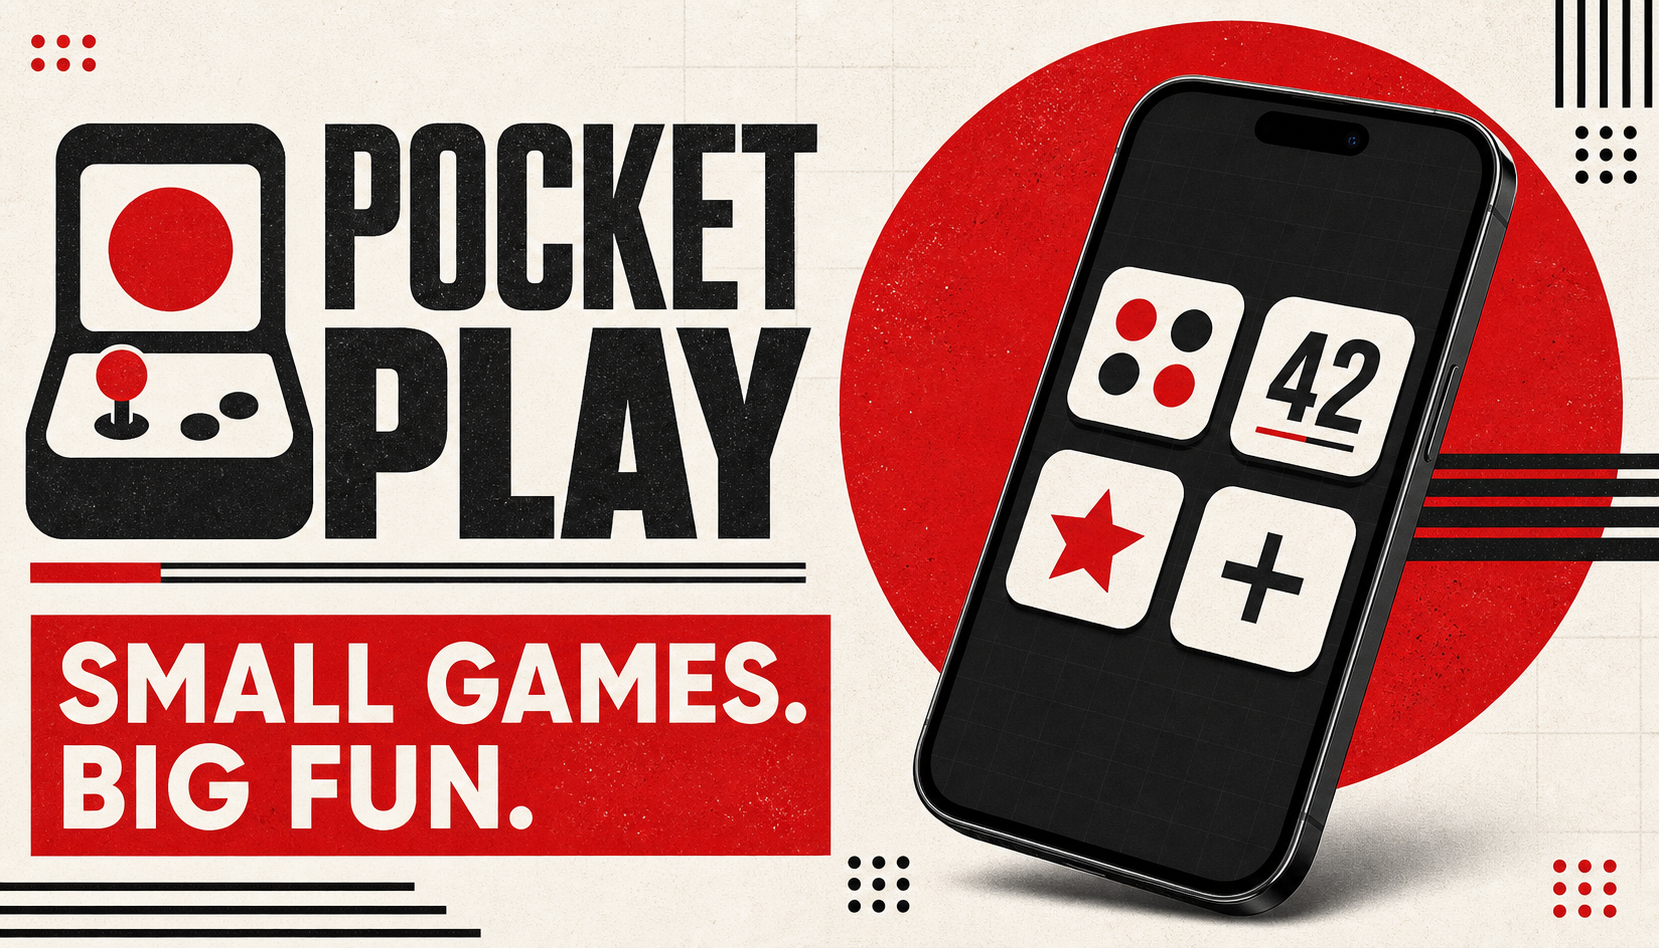
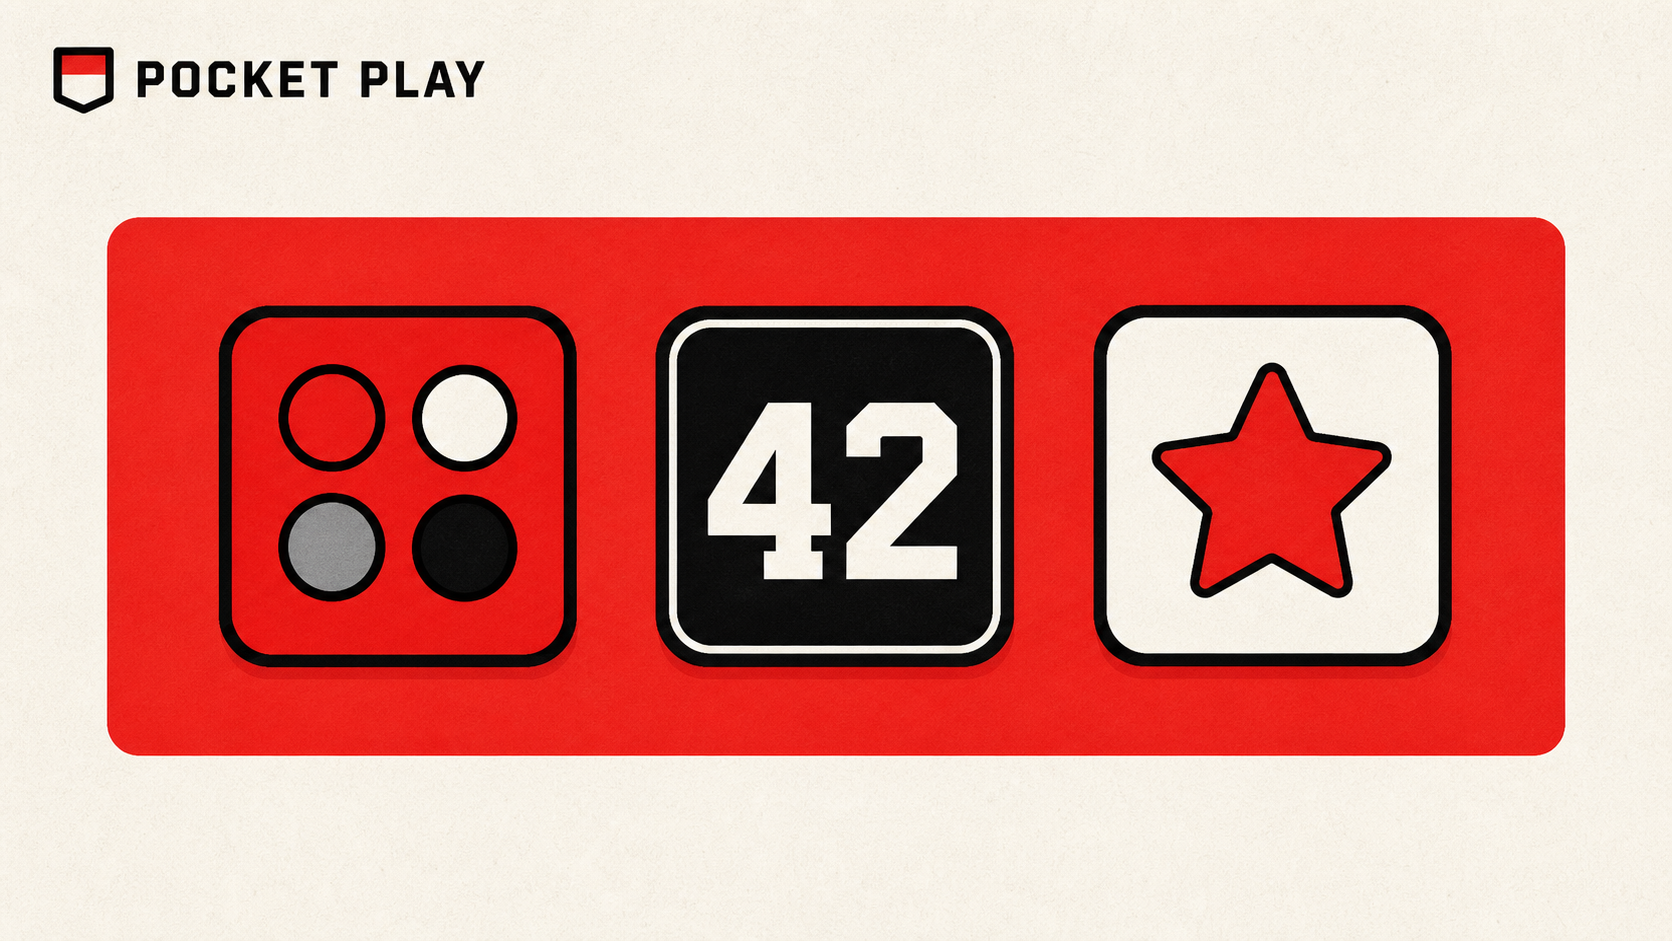
Simplify Pocket Play to game grid

diff --git a/app/globals.css b/app/globals.css
@@ -33,6 +33,11 @@ button,input { font:inherit; } button { color:inherit; } a { color:inherit; text
 .how-section { max-width:1150px; margin:0 auto 110px; padding:55px 60px; display:grid; grid-template-columns:.9fr 1.1fr; gap:70px; align-items:center; border:3px solid var(--black); background:var(--red); color:white; box-shadow:12px 12px 0 var(--black); }.how-section .eyebrow { color:white;opacity:.75; }.how-section h2 { max-width:480px; }.how-section ol { list-style:none;margin:0;padding:0; }.how-section li { display:grid;grid-template-columns:42px 1fr;gap:15px;padding:16px 0;border-bottom:1px solid rgba(255,255,255,.35); }.how-section li:last-child { border:0; }.how-section li>span { width:34px;height:34px;display:grid;place-items:center;border:2px solid white;font-size:14px;font-weight:900; }.how-section strong { font-size:12px; }.how-section li p { margin:4px 0 0;font-size:10px;opacity:.78; }
 footer { min-height:95px; padding:25px clamp(24px,6vw,90px); display:flex;justify-content:space-between;align-items:center;border-top:3px solid var(--black);background:white;font-size:9px;font-weight:700;letter-spacing:.1em; }
 
+.library-only { min-height:calc(100vh - 72px); padding-top:64px; }
+.library-only .section-heading { margin-bottom:34px; }
+.library-only .section-heading h1 { margin:0; font-size:clamp(38px,5vw,58px); font-weight:900; letter-spacing:-.05em; }
+.library-only .app-shelf { grid-template-columns:repeat(6,minmax(100px,132px)); }
+
 .game-shell { min-height:100vh;background:linear-gradient(90deg,rgba(0,0,0,.025) 1px,transparent 1px),linear-gradient(rgba(0,0,0,.025) 1px,transparent 1px),var(--paper);background-size:30px 30px; }.game-topbar { height:69px; }.small-wordmark { position:absolute;left:50%;transform:translateX(-50%); }.back-button,.icon-button,.text-button { border:0;background:transparent;font-weight:900;cursor:pointer; }.back-button { font-size:11px; }.icon-button { width:38px;height:38px;border:2px solid var(--black);background:white;font-size:19px;box-shadow:3px 3px 0 var(--red); }.game-intro { text-align:center;padding:44px 20px 27px; }.game-intro h1,.number-game h1,.memory-heading h1 { margin:0;font-size:clamp(40px,5vw,59px);line-height:1; }.game-intro>p:not(.eyebrow),.number-game>p:not(.eyebrow),.memory-heading p:not(.eyebrow) { color:#706c66; }.legend { display:flex;justify-content:center;gap:22px;margin-top:22px;font-size:9px;font-weight:700; }.key-dot { display:inline-block;width:9px;height:9px;border-radius:50%;margin-right:5px; }.exact-dot { background:var(--red); }.close-dot { border:2px solid var(--black); }
 
 .code-board { width:min(620px,calc(100% - 28px));margin:0 auto 70px;border:3px solid var(--black);background:white;box-shadow:9px 10px 0 var(--black);overflow:hidden; }.secret-row { padding:18px 24px;background:var(--black);color:white;display:grid;grid-template-columns:1fr auto 1fr;align-items:center; }.secret-row>span,.secret-row>strong { font-size:8px;letter-spacing:.14em; }.secret-row>strong { text-align:right;color:#ff6570; }.peg-row { display:flex;gap:10px; }.peg { width:33px;height:33px;display:inline-grid;place-items:center;border-radius:10px;border:2px solid var(--black);background:#ddd8cf;box-shadow:inset 0 -3px 0 rgba(0,0,0,.14);font-weight:900; }.secret-row .peg { border-color:white; }.peg-hidden { background:#333!important;color:white;box-shadow:none; }.attempt-row { min-height:58px;display:grid;grid-template-columns:44px 1fr 100px;align-items:center;padding:8px 22px;border-bottom:1px solid var(--line); }.active-attempt { background:#fff0f1; }.attempt-number { font-size:9px;font-weight:900;opacity:.45; }.feedback { display:flex;justify-content:flex-end;gap:11px;font-size:10px;font-weight:900; }.exact-count { color:var(--red); }.close-count { color:var(--black); }.feedback-empty { opacity:.25; }.picker-panel { padding:20px 24px 24px;background:#efebe4; }.picker-panel p { margin:0 0 14px;display:flex;justify-content:space-between;font-size:9px;font-weight:900;letter-spacing:.08em; }.picker-panel p span { opacity:.5; }.color-picker { display:flex;gap:12px; }.color-choice { width:42px;height:42px;border:2px solid var(--black);border-radius:12px;cursor:pointer;box-shadow:inset 0 -4px 0 rgba(0,0,0,.14),3px 3px 0 var(--black);transition:transform .1s; }.color-choice:hover { transform:translateY(-3px); }.picker-actions { display:flex;justify-content:space-between;align-items:center;margin-top:19px; }.text-button { text-decoration:underline; }.text-button:disabled { opacity:.3; }.result-panel { display:flex;align-items:center;justify-content:space-between;gap:18px;padding:22px 24px;background:#ffe3e5; }.result-panel div { display:flex;flex-direction:column; }.result-panel strong { font-size:21px;font-weight:900; }.result-panel span { font-size:10px;color:#6f6162; }
@@ -42,5 +47,5 @@ footer { min-height:95px; padding:25px clamp(24px,6vw,90px); display:flex;justif
 .memory-game { width:min(760px,calc(100% - 36px));margin:0 auto;padding:58px 0 80px; }.memory-heading { display:flex;align-items:flex-end;justify-content:space-between;margin-bottom:30px; }.memory-heading p { margin-bottom:9px; }.memory-heading p:last-child { margin:12px 0 0; }.moves { border:2px solid var(--black);padding:11px 19px;text-align:center;background:white;box-shadow:4px 4px 0 var(--red); }.moves strong { display:block;font-size:25px;font-weight:900;color:var(--red); }.moves span { font-size:7px;font-weight:900;letter-spacing:.12em; }.memory-grid { display:grid;grid-template-columns:repeat(4,1fr);gap:12px; }.memory-card { aspect-ratio:1;border:3px solid var(--black);border-radius:18px;background:var(--black);color:white;cursor:pointer;box-shadow:5px 6px 0 var(--red);transition:transform .25s,background .25s; }.memory-card:hover:not(.is-open) { transform:translateY(-4px); }.memory-card.is-open { background:white;color:var(--red);transform:rotateY(180deg); }.memory-card.is-matched { background:var(--red);color:white;box-shadow:none;opacity:.75; }.memory-card span { display:inline-block;font-size:clamp(30px,6vw,58px);transform:rotateY(180deg); }.memory-game .result-panel { margin-top:24px;border:3px solid var(--black);box-shadow:6px 6px 0 var(--black); }
 
 @media(max-width:900px){.hero{grid-template-columns:1fr;padding-top:55px}.hero-art{height:470px;margin-top:28px}.quick-stats{margin:0 24px}.app-shelf{grid-template-columns:repeat(4,minmax(92px,1fr))}.how-section{margin-left:24px;margin-right:24px;grid-template-columns:1fr;gap:30px}}
-@media(max-width:600px){.hub-nav{height:65px;padding:0 15px}.nav-links{display:none}.nav-play{padding:8px 14px}.wordmark{font-size:10px}.brand-dot{width:27px;height:27px}.hero{padding:48px 19px 50px;min-height:auto}.hero h1{font-size:55px}.hero-text{font-size:13px}.hero-actions{gap:18px}.hero-art{height:410px}.sun-disc{width:290px;height:290px;right:-8%;top:14%}.phone-frame{width:205px;height:385px;border-radius:31px}.phone-frame>p{margin:19px 0 13px}.mini-apps{gap:13px}.japanese-stamp{right:-8px}.quick-stats{padding:14px 7px;min-height:74px}.quick-stats div{gap:7px}.quick-stats strong{font-size:20px}.quick-stats span{font-size:6px}.collection{padding:75px 18px}.section-heading{align-items:start}.section-heading>p{display:none}.app-shelf{grid-template-columns:repeat(3,1fr);gap:31px 15px}.app-icon{border-radius:21px;box-shadow:4px 5px 0 var(--black)}.app-item>strong{font-size:10px}.how-section{margin:0 18px 75px;padding:35px 24px;box-shadow:8px 8px 0 var(--black)}.how-section h2{font-size:36px}footer{flex-direction:column;gap:12px;text-align:center}.game-topbar{padding:0 14px}.small-wordmark{font-size:8px}.game-intro{padding-top:35px}.game-intro h1,.number-game h1,.memory-heading h1{font-size:39px}.legend{flex-direction:column;gap:7px}.secret-row{grid-template-columns:1fr auto;padding:15px}.secret-row>span{display:none}.secret-row>strong{margin-left:14px}.attempt-row{grid-template-columns:29px 1fr 74px;padding:7px 12px}.peg-row{gap:7px}.peg{width:30px;height:30px}.picker-panel{padding:18px 15px}.color-picker{justify-content:space-between;gap:6px}.color-choice{width:39px;height:39px}.result-panel{align-items:stretch;flex-direction:column}.number-game{padding-top:52px}.number-orb{width:140px;height:140px}.memory-heading{align-items:flex-start}.moves{padding:8px 13px}.memory-grid{gap:8px}.memory-card{border-radius:13px}}
+@media(max-width:600px){.hub-nav{height:65px;padding:0 15px}.wordmark{font-size:10px}.brand-dot{width:27px;height:27px}.library-only{min-height:calc(100vh - 65px);padding:42px 18px}.library-only .app-shelf{grid-template-columns:repeat(3,1fr);gap:31px 15px}.app-icon{border-radius:21px;box-shadow:4px 5px 0 var(--black)}.app-item>strong{font-size:10px}.game-topbar{padding:0 14px}.small-wordmark{font-size:8px}.game-intro{padding-top:35px}.game-intro h1,.number-game h1,.memory-heading h1{font-size:39px}.legend{flex-direction:column;gap:7px}.secret-row{grid-template-columns:1fr auto;padding:15px}.secret-row>span{display:none}.secret-row>strong{margin-left:14px}.attempt-row{grid-template-columns:29px 1fr 74px;padding:7px 12px}.peg-row{gap:7px}.peg{width:30px;height:30px}.picker-panel{padding:18px 15px}.color-picker{justify-content:space-between;gap:6px}.color-choice{width:39px;height:39px}.result-panel{align-items:stretch;flex-direction:column}.number-game{padding-top:52px}.number-orb{width:140px;height:140px}.memory-heading{align-items:flex-start}.moves{padding:8px 13px}.memory-grid{gap:8px}.memory-card{border-radius:13px}}
 @media(prefers-reduced-motion:reduce){*,*::before,*::after{scroll-behavior:auto!important;transition:none!important}}

diff --git a/app/page.tsx b/app/page.tsx
@@ -285,60 +285,20 @@ function Hub({ onSelect }: { onSelect: (game: GameId) => void }) {
   return (
     <main className="hub-shell">
       <nav className="hub-nav">
-        <div className="wordmark"><span className="brand-dot">P</span><span>POCKET PLAY<small>ポケットプレイ</small></span></div>
-        <div className="nav-links"><a href="#games">ゲーム</a><a href="#how">遊び方</a></div>
-        <button className="nav-play" onClick={() => onSelect("codebreaker")}>PLAY</button>
+        <div className="wordmark"><span className="brand-dot">P</span><span>POCKET PLAY</span></div>
       </nav>
 
-      <section className="hero">
-        <div className="hero-copy">
-          <div className="hero-kicker">POCKET ARCADE · ポケットアーケード</div>
-          <h1><span>小さなゲーム。</span>Big fun,<br /><em>one tap away.</em></h1>
-          <p className="hero-text">A tiny arcade built for quick breaks. Choose an icon, tap to open, and start playing instantly.</p>
-          <div className="hero-actions"><button className="primary-button hero-button" onClick={() => onSelect("codebreaker")}>START GAME <span>→</span></button><a href="#games">VIEW ALL</a></div>
-        </div>
-        <div className="hero-art" aria-hidden="true">
-          <div className="sun-disc" />
-          <div className="phone-frame">
-            <div className="phone-status"><span>9:41</span><i /></div>
-            <p>ゲーム</p>
-            <div className="mini-apps"><span className="mini-code">●●<small>CODE</small></span><span className="mini-number">42<small>NUMBER</small></span><span className="mini-memory">★<small>MEMORY</small></span><span className="mini-more">＋<small>MORE</small></span></div>
-            <div className="phone-dock"><i /><i /><i /></div>
-          </div>
-          <div className="japanese-stamp">遊<br />ぶ</div>
-        </div>
-      </section>
-
-      <section className="quick-stats" aria-label="Pocket Play features">
-        <div><strong>01</strong><span>CHOOSE<br />選ぶ</span></div><i />
-        <div><strong>02</strong><span>TAP<br />タップ</span></div><i />
-        <div><strong>03</strong><span>PLAY<br />遊ぶ</span></div>
-      </section>
-
-      <section className="collection" id="games">
-        <div className="section-heading"><div><p className="eyebrow">GAME LIBRARY · ゲームライブラリ</p><h2>Choose a game</h2></div><p>Tap an app to start playing.</p></div>
+      <section className="collection library-only">
+        <div className="section-heading"><h1>Games</h1></div>
         <div className="app-shelf">
           {games.map((game) => (
             <button className="app-item" key={game.id} onClick={() => onSelect(game.id)}>
               <span className={`app-icon theme-${game.color}`}><i>{game.glyph}</i><b>{game.number}</b></span>
               <strong>{game.name}</strong>
-              <small>{game.meta}</small>
             </button>
           ))}
-          <div className="app-item coming-item">
-            <span className="app-icon coming-icon"><i>＋</i><b>04</b></span>
-            <strong>More soon</strong>
-            <small>COMING SOON</small>
-          </div>
         </div>
       </section>
-
-      <section className="how-section" id="how">
-        <div><p className="eyebrow">HOW TO PLAY · 遊び方</p><h2>Simple as opening an app.</h2></div>
-        <ol><li><span>一</span><div><strong>Choose your icon</strong><p>Pick a game from your Pocket Play screen.</p></div></li><li><span>二</span><div><strong>Tap to open</strong><p>No download and no setup required.</p></div></li><li><span>三</span><div><strong>Play again</strong><p>Every round starts fresh in one tap.</p></div></li></ol>
-      </section>
-
-      <footer><div className="wordmark"><span className="brand-dot">P</span><span>POCKET PLAY<small>ポケットプレイ</small></span></div><p>SMALL GAMES · BIG FUN</p><span>© 2026</span></footer>
     </main>
   );
 }

diff --git a/app/layout.tsx b/app/layout.tsx
@@ -10,14 +10,14 @@ export async function generateMetadata(): Promise<Metadata> {
   const host = incoming.get("x-forwarded-host") ?? incoming.get("host") ?? "pocket-play-arcade.kfuture.chatgpt.site";
   const protocol = incoming.get("x-forwarded-proto") ?? (host.startsWith("localhost") ? "http" : "https");
   const baseUrl = new URL(`${protocol}://${host}`);
-  const title = "Pocket Play — ポケットゲーム";
-  const description = "A red, white, and black pocket arcade of quick logic, number, and memory games.";
+  const title = "Pocket Play";
+  const description = "Play Codebreaker, Number Hunt, and Memory Flip.";
 
   return {
     metadataBase: baseUrl,
     title,
     description,
-    openGraph: { title, description, type: "website", images: [{ url: "/og.png", width: 1659, height: 948, alt: "Pocket Play pocket arcade" }] },
+    openGraph: { title, description, type: "website", images: [{ url: "/og.png", width: 1672, height: 941, alt: "Pocket Play games" }] },
     twitter: { card: "summary_large_image", title, description, images: ["/og.png"] },
   };
 }
